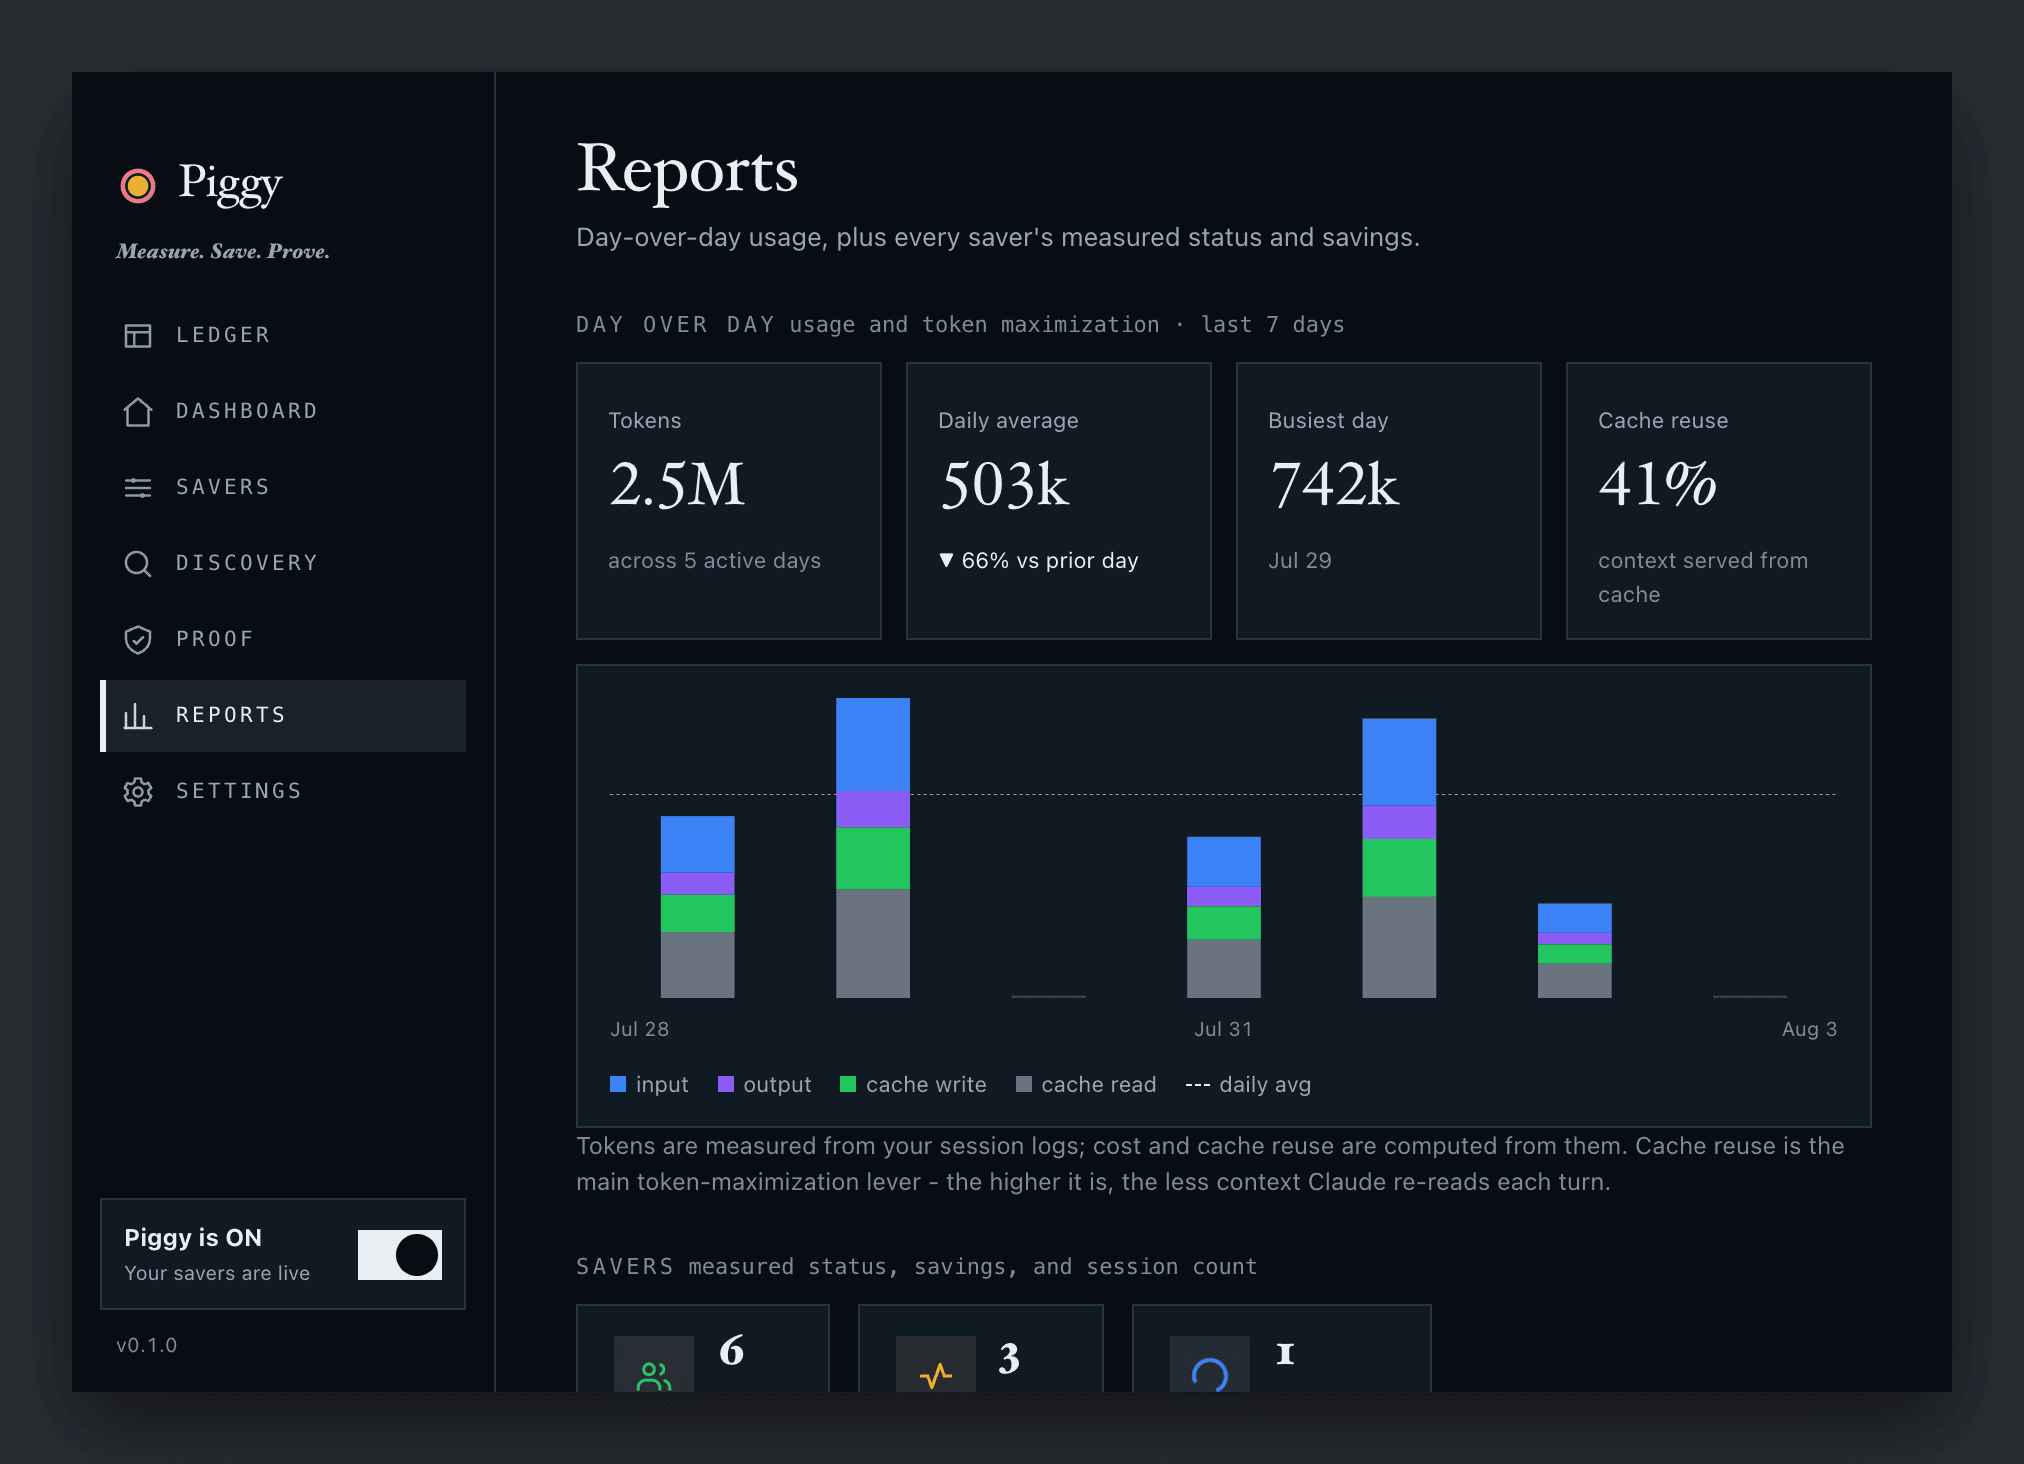
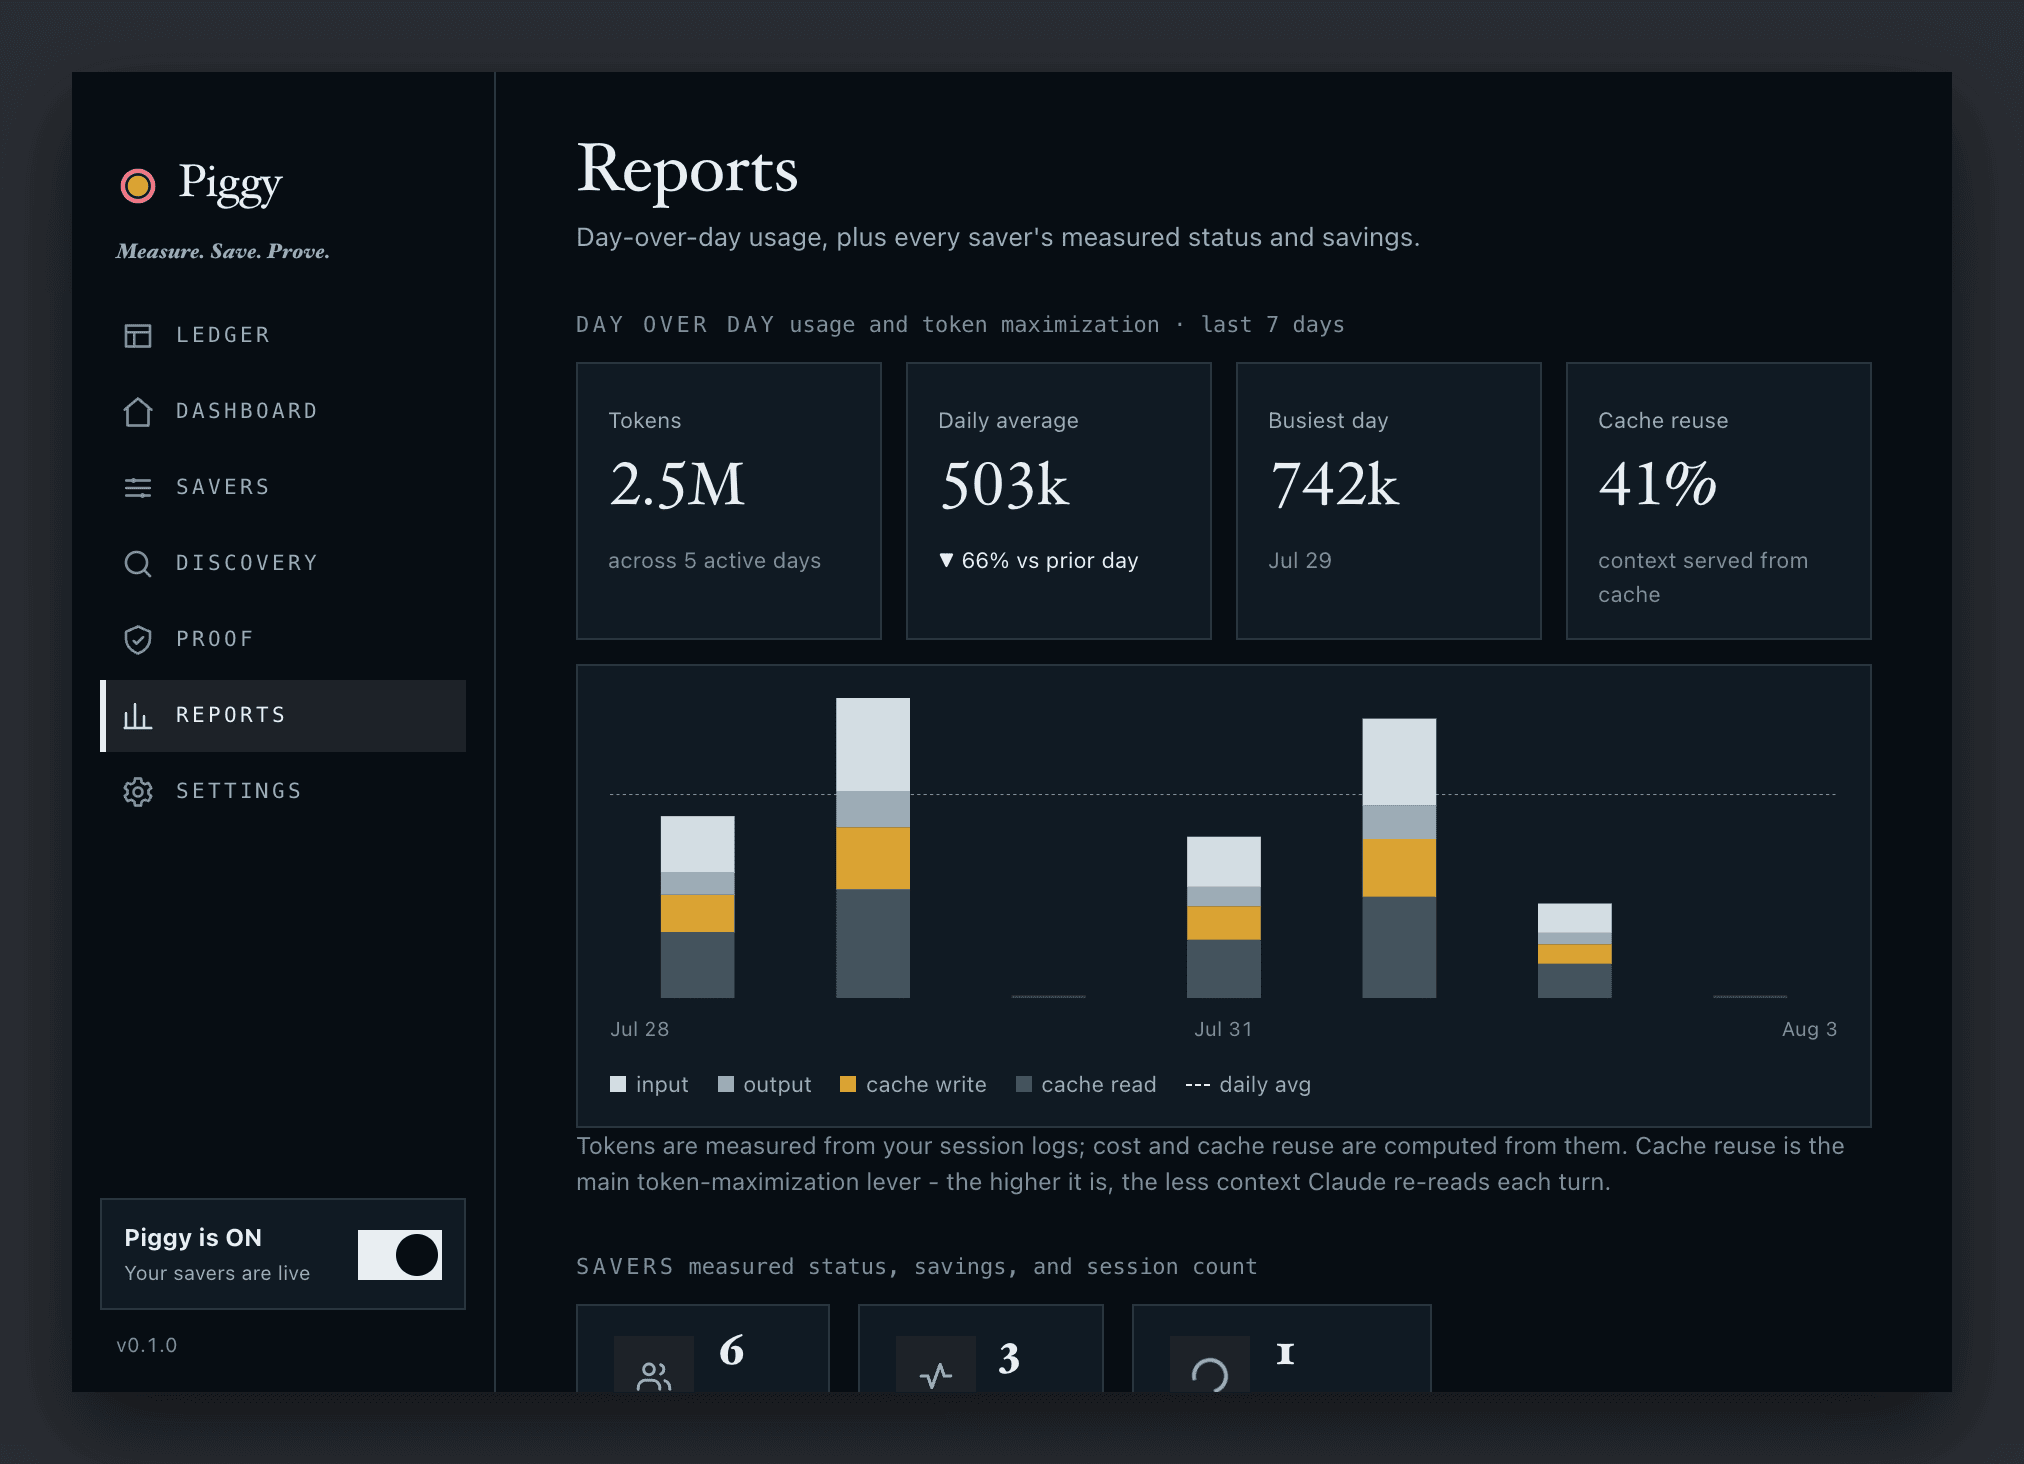
identity: sweep hardcoded colour out of TSX
The green-rationing pass only ever read index.css, so every colour written in a
component survived it. Four files were still on the v1 palette:

- UsageChart: the same four stream hexes StreamBars had, including #22c55e on
  cache write. Categories, not verdicts; they take the neutral ramp.
- SaverIcon: a green tile for Sweep and a blue one for RTK. On a row that also
  carries a measured/estimated chip that is a second, contradictory verdict.
  The glyph already distinguishes them, so the colour does not have to, and
  green in particular is spoken for.
- Reports summary cards: green/amber/blue icon washes on what are counts of
  savers, not claims about them.
- Discover: a literal grey rgba where every other surface uses a token.

What remains hardcoded is deliberate: sharecard-canvas.ts cannot read CSS
custom properties, and PiggyMark writes `var(--token, #fallback)` so the mark
still renders if it is ever extracted from the app.

Screenshots re-shot: the Reports chart is the visible difference.

diff --git a/app/src/screens/Reports.tsx b/app/src/screens/Reports.tsx
@@ -160,7 +160,7 @@ export function Reports() {
 
       <div className="summary">
         <div className="scard">
-          <span className="sic" style={{ background: "rgba(34,197,94,0.14)", color: "#22c55e" }}>
+          <span className="sic" style={{ background: "var(--sheet-2)", color: "var(--ink-2)" }}>
             <svg viewBox="0 0 24 24" fill="none" stroke="currentColor" strokeWidth="1.8" strokeLinecap="round" strokeLinejoin="round" aria-hidden>
               <circle cx="9" cy="8" r="3.2" />
               <path d="M2.5 20v-1a4.5 4.5 0 0 1 4.5-4.5h4a4.5 4.5 0 0 1 4.5 4.5v1" />
@@ -174,7 +174,7 @@ export function Reports() {
           </div>
         </div>
         <div className="scard">
-          <span className="sic" style={{ background: "rgba(245,158,11,0.15)", color: "#f59e0b" }}>
+          <span className="sic" style={{ background: "var(--sheet-2)", color: "var(--ink-2)" }}>
             <svg viewBox="0 0 24 24" fill="none" stroke="currentColor" strokeWidth="1.9" strokeLinecap="round" strokeLinejoin="round" aria-hidden>
               <path d="M3 12h4l2.5 7 5-14 2.5 7H21" />
             </svg>
@@ -185,7 +185,7 @@ export function Reports() {
           </div>
         </div>
         <div className="scard">
-          <span className="sic" style={{ background: "rgba(59,130,246,0.14)", color: "#3b82f6" }}>
+          <span className="sic" style={{ background: "var(--sheet-2)", color: "var(--ink-2)" }}>
             <span className="chip-spinner" style={{ width: 18, height: 18, borderWidth: 2.4 }} />
           </span>
           <div>

diff --git a/app/src/components/SaverIcon.tsx b/app/src/components/SaverIcon.tsx
@@ -45,14 +45,18 @@ const pig = (
   </>
 );
 
+// A saver's tile is identity, not evidence. The old set gave Sweep a green tile
+// and RTK a blue one, which on a row that also carries a measured/estimated
+// chip reads as a second, contradictory verdict. The glyph distinguishes them;
+// the colour does not have to, and green in particular is spoken for.
 const ICONS: Record<string, IconDef> = {
-  sweep: { fg: "#22c55e", bg: "rgba(34,197,94,0.14)", node: broom },
-  rtk: { fg: "#3b82f6", bg: "rgba(59,130,246,0.14)", node: monitor },
-  caveman: { fg: "#f59e0b", bg: "rgba(245,158,11,0.15)", node: terseLines },
-  ponytail: { fg: "#8b5cf6", bg: "rgba(139,92,246,0.15)", node: codeFile },
+  sweep: { fg: "var(--ink-2)", bg: "var(--sheet-2)", node: broom },
+  rtk: { fg: "var(--ink-2)", bg: "var(--sheet-2)", node: monitor },
+  caveman: { fg: "var(--ink-2)", bg: "var(--sheet-2)", node: terseLines },
+  ponytail: { fg: "var(--ink-2)", bg: "var(--sheet-2)", node: codeFile },
 };
 
-const FALLBACK: IconDef = { fg: "var(--text-2)", bg: "rgba(127,127,127,0.14)", node: pig };
+const FALLBACK: IconDef = { fg: "var(--ink-3)", bg: "var(--sheet-2)", node: pig };
 
 export function SaverIcon({ id, size = 38 }: { id: string; size?: number }) {
   const def = ICONS[id] ?? FALLBACK;

diff --git a/app/src/components/UsageChart.tsx b/app/src/components/UsageChart.tsx
@@ -6,10 +6,10 @@ import { formatTokens } from "../lib/format";
 // hero's stacked totals. cacheRead is the neutral gray — the cheap, reused
 // portion the analysis highlights.
 const COLORS = {
-  input: "#3b82f6",
-  output: "#8b5cf6",
-  cacheWrite: "#22c55e",
-  cacheRead: "#6b7280",
+  input: "var(--cat-1)",
+  output: "var(--cat-2)",
+  cacheWrite: "var(--cat-warm)",
+  cacheRead: "var(--cat-4)",
 };
 
 // Bottom→top stack order matches the StreamBars legend.

diff --git a/app/src/screens/Discover.tsx b/app/src/screens/Discover.tsx
@@ -85,7 +85,7 @@ export function Discover() {
                 {e.exclusionReason}
               </div>
             ) : (
-              <div className="excl" style={{ background: "rgba(127,127,127,0.14)", color: "var(--text-2)" }}>
+              <div className="excl" style={{ background: "var(--sheet-2)", color: "var(--text-2)" }}>
                 {e.note}
               </div>
             )}
